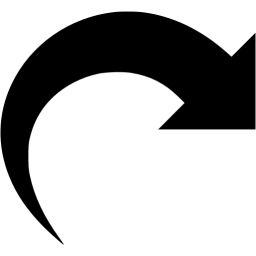
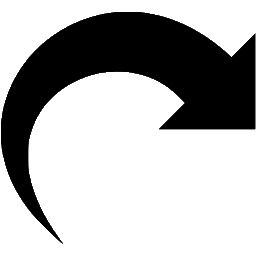
fixed redo image, turned off autoplay

diff --git a/index.html b/index.html
@@ -12,7 +12,7 @@
         <h1 align="center">Waoow klikkað teikniforrit GG</h1>
     </header><!-- /header -->
     <body background="images/nature.jpg">
-    <audio autoplay>
+    <audio >
           <source src="music/birds.mp3" type="audio/mpeg">
     </audio>
     	<div id="wrapper">
